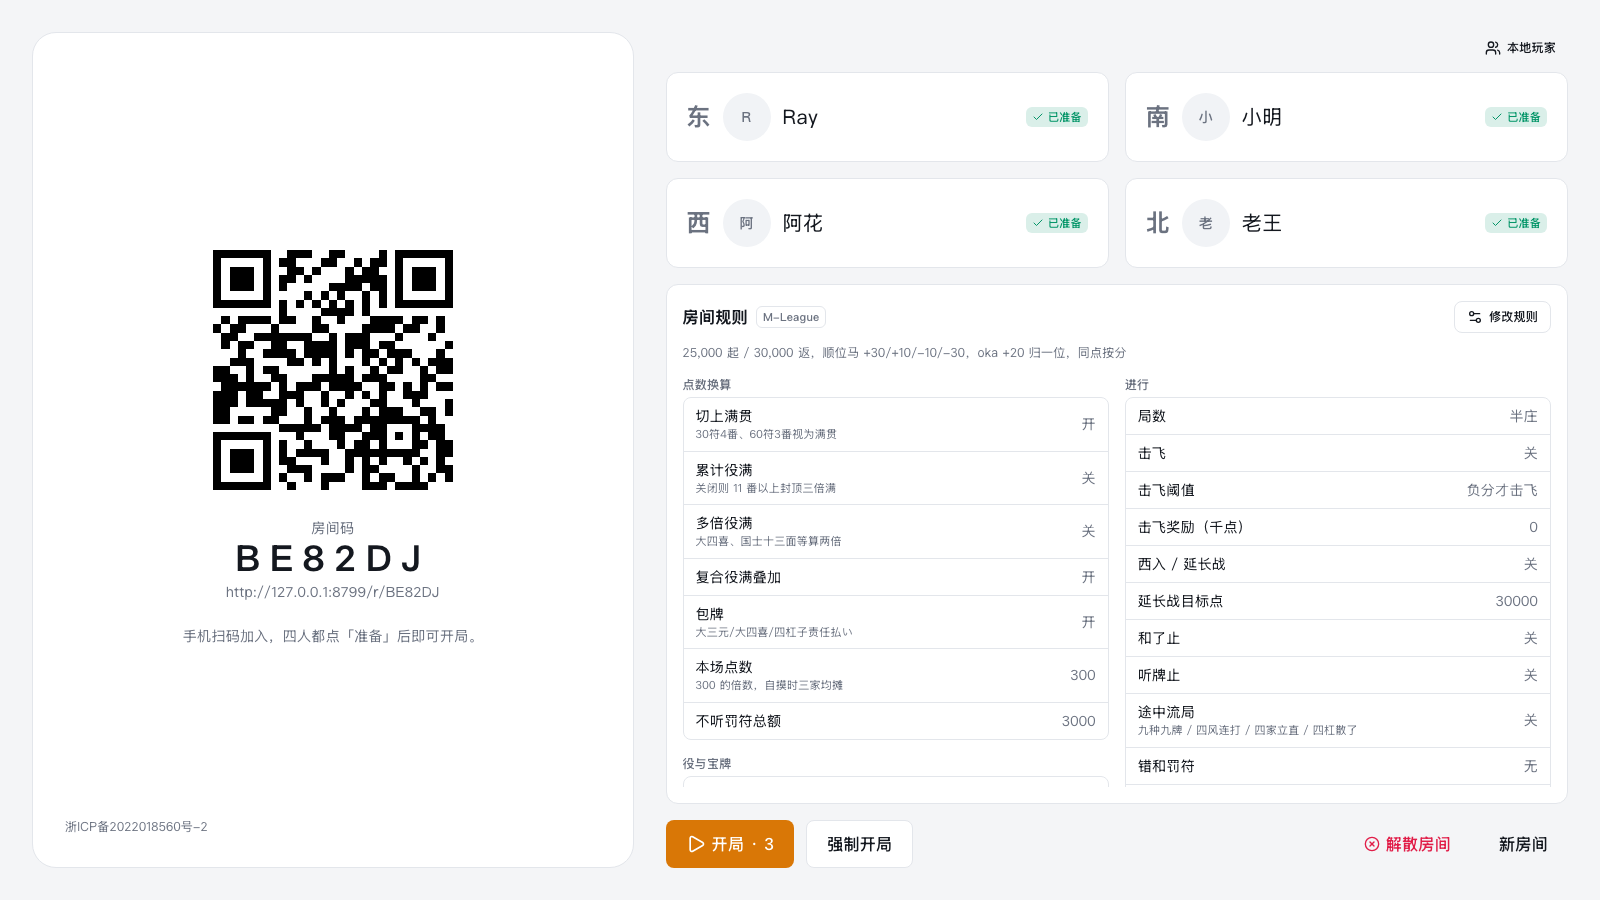
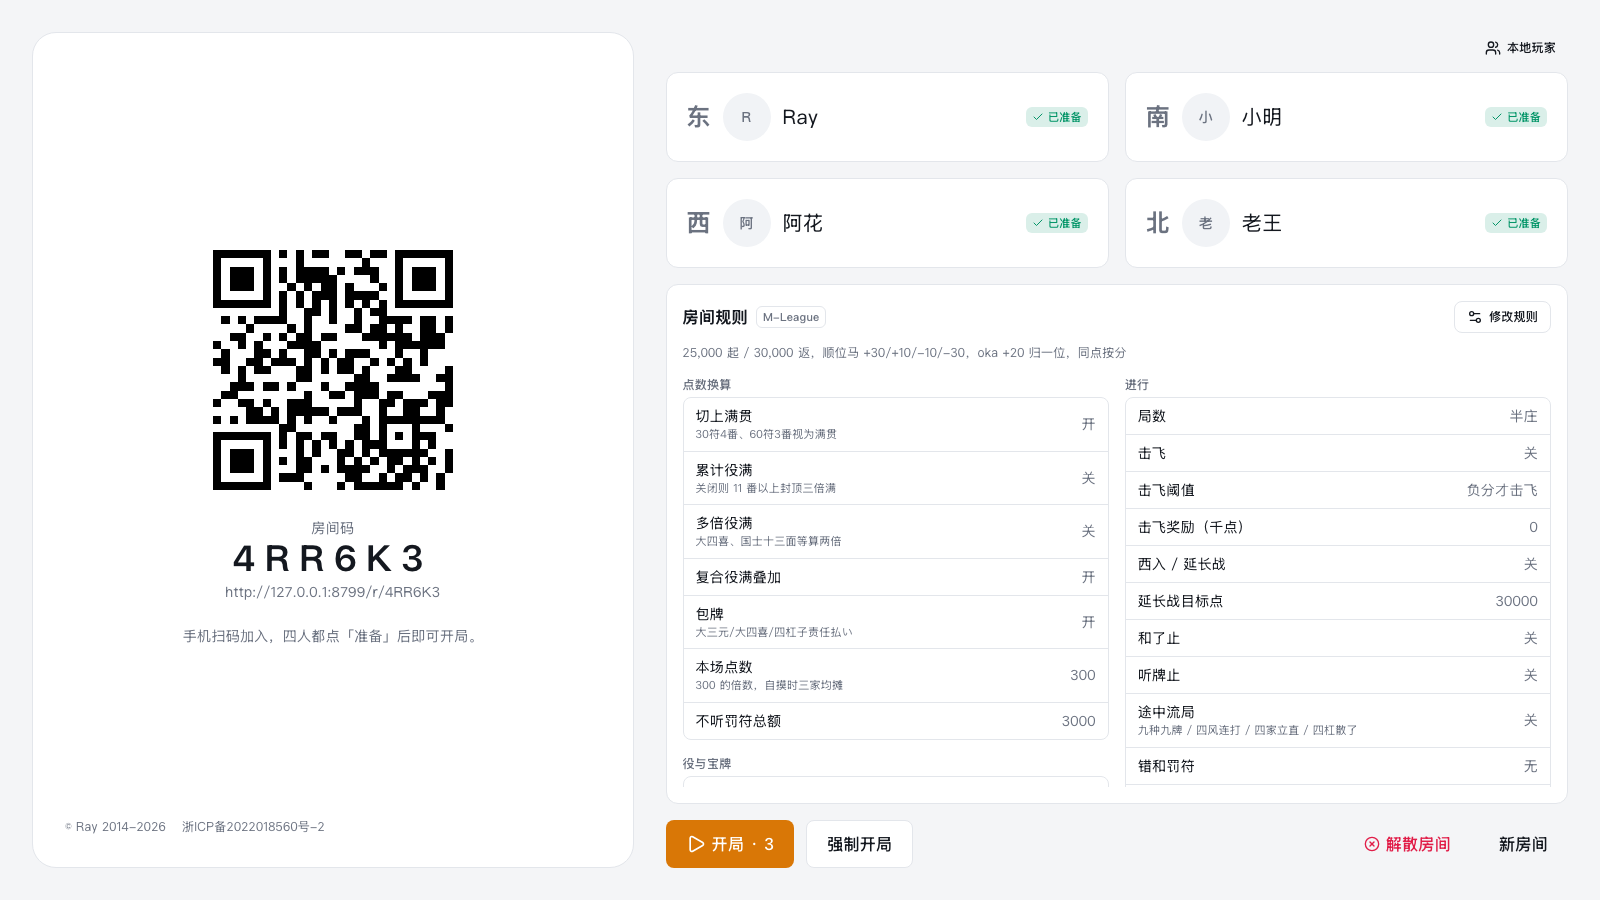
feat(web): 主控台左栏底部也显示版权，与备案号合成一个 SiteFooter
首页居中、主控台左对齐，共用同一组件；e2e 断言电视大厅与对局两处都可见，README 截图同步。

Changed region(s): [[0.125, 0.28, 0.2812, 0.56], [0.125, 0.5911, 0.2812, 0.6844], [0.0312, 0.9022, 0.1875, 0.9333]]

diff --git a/apps/web/src/features/site/SiteFooter.tsx b/apps/web/src/features/site/SiteFooter.tsx
@@ -5,20 +5,18 @@ const ICP = { number: "浙ICP备2022018560号-2", url: "https://beian.miit.gov.c
 
 // 新窗口打开：主屏应用（standalone）里点开交给系统浏览器，不把计分页顶掉
 const external = { target: "_blank", rel: "noreferrer" } as const;
-const link = "text-xs text-muted underline-offset-2 hover:underline";
+const link = "underline-offset-2 hover:underline";
 
-export function Copyright({ className }: { className?: string }) {
+/** 版权 + 备案号，一行两段（窄了自动换行）；对齐方式由调用方给。 */
+export function SiteFooter({ className }: { className?: string }) {
   return (
-    <a href={AUTHOR.url} {...external} className={cn(link, className)}>
-      © {AUTHOR.name} {AUTHOR.since}-{new Date().getFullYear()}
-    </a>
-  );
-}
-
-export function IcpRecord({ className }: { className?: string }) {
-  return (
-    <a href={ICP.url} {...external} className={cn(link, className)}>
-      {ICP.number}
-    </a>
+    <footer className={cn("flex flex-wrap gap-x-4 gap-y-1 text-xs text-muted", className)}>
+      <a href={AUTHOR.url} {...external} className={link}>
+        © {AUTHOR.name} {AUTHOR.since}-{new Date().getFullYear()}
+      </a>
+      <a href={ICP.url} {...external} className={link}>
+        {ICP.number}
+      </a>
+    </footer>
   );
 }

diff --git a/apps/web/src/features/lobby/ConsoleLobby.tsx b/apps/web/src/features/lobby/ConsoleLobby.tsx
@@ -9,7 +9,7 @@ import { useCommand } from "@/ws/useRoom";
 import { cn } from "@/lib/utils";
 import { RoomQr, RoomQrDialog } from "@/features/console/RoomQr";
 import { RulesEditor } from "@/features/rules/RulesEditor";
-import { IcpRecord } from "@/features/site/SiteFooter";
+import { SiteFooter } from "@/features/site/SiteFooter";
 import { LocalPlayerDialog } from "./LocalPlayerDialog";
 import { SeatCards } from "./SeatCards";
 import { useCountdown } from "./useCountdown";
@@ -127,7 +127,7 @@ export function ConsoleLobby({
               手机扫码加入，四人都点「准备」后即可开局。
             </p>
           </div>
-          <IcpRecord className="self-start" />
+          <SiteFooter />
         </section>
       ) : (
         <div className="flex items-center gap-3">
@@ -158,7 +158,7 @@ export function ConsoleLobby({
         {rulesCard}
         {actions}
       </section>
-      {!wide && <IcpRecord className="shrink-0 self-start" />}
+      {!wide && <SiteFooter className="shrink-0" />}
 
       <LocalPlayerDialog
         seat={localSeat}

diff --git a/apps/web/src/features/console/ConsoleGame.tsx b/apps/web/src/features/console/ConsoleGame.tsx
@@ -13,7 +13,7 @@ import { HistoryTable } from "@/features/history/HistoryTable";
 import { FinalPanel } from "@/features/final/FinalPanel";
 import { ControlPanel } from "@/features/settlement/ControlPanel";
 import { MirrorOverlay } from "@/features/mirror/MirrorOverlay";
-import { IcpRecord } from "@/features/site/SiteFooter";
+import { SiteFooter } from "@/features/site/SiteFooter";
 
 /** 主控台对局页：宽屏双栏（左记分右历史），窄屏（Pad）单栏 + 历史抽屉 + 二维码弹窗。 */
 export function ConsoleGame({
@@ -85,7 +85,7 @@ export function ConsoleGame({
               <DiffMatrix game={game.present} names={names} rules={room.rules} tv={wide} />
             </div>
           </div>
-          <IcpRecord className="shrink-0 self-start" />
+          <SiteFooter className="shrink-0" />
         </div>
         {wide && (
           <div className="min-h-0 overflow-y-auto rounded-xl border border-border bg-surface p-3">

diff --git a/apps/web/src/app/routes/Landing.tsx b/apps/web/src/app/routes/Landing.tsx
@@ -4,7 +4,7 @@ import { Monitor, Smartphone } from "lucide-react";
 import { deviceKind } from "@/lib/device";
 import { Button } from "@/ui/button";
 import { JoinPanel } from "@/features/join/JoinPanel";
-import { Copyright, IcpRecord } from "@/features/site/SiteFooter";
+import { SiteFooter } from "@/features/site/SiteFooter";
 
 /**
  * 欢迎页按设备分流：桌面直接进主控台（`?stay=1` 可留在本页）；平板二选一；手机直接进加入面板。
@@ -70,10 +70,7 @@ export function Landing() {
           </Link>
         </p>
       </div>
-      <footer className="flex shrink-0 flex-wrap justify-center gap-x-4 gap-y-1">
-        <Copyright />
-        <IcpRecord />
-      </footer>
+      <SiteFooter className="shrink-0 justify-center" />
     </main>
   );
 }

diff --git a/CLAUDE.md b/CLAUDE.md
@@ -52,8 +52,8 @@ Yarn workspaces monorepo:
   columns ≥ 1280px, otherwise single column with history drawer + QR dialog), `/r/:code` (phone).
   Phone settlement dialogs mirror to the TV as a full-screen modal (`features/mirror/SettlementMirror`),
   carrying the hand only once the engine has evaluated it. Site footer links (copyright, ICP record) live in
-  `features/site/SiteFooter`: landing shows both, the console shows the ICP number pinned at the bottom of its
-  left column. PWA = `public/manifest.json` + icons only, deliberately no Service Worker (the app is useless
+  `features/site/SiteFooter`: landing centers them, the console shows them left-aligned, pinned at the bottom of
+  the left column on wide screens and at the page bottom otherwise. PWA = `public/manifest.json` + icons only, deliberately no Service Worker (the app is useless
   without its WebSocket, and caching index would pin stale versions); logo master in `docs/brand/`. Tile images are flat SVGs from mahjong_graphic (`src/assets/tiles`, see NOTICE.md), rendered by
   `features/hand/TileFace`.
 
